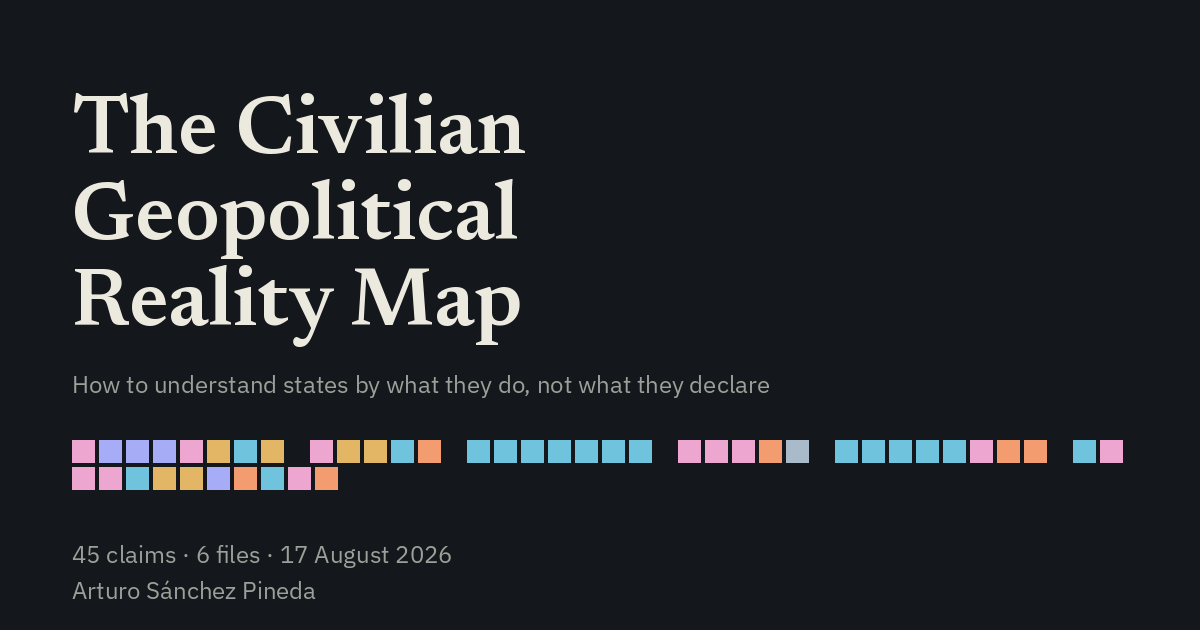
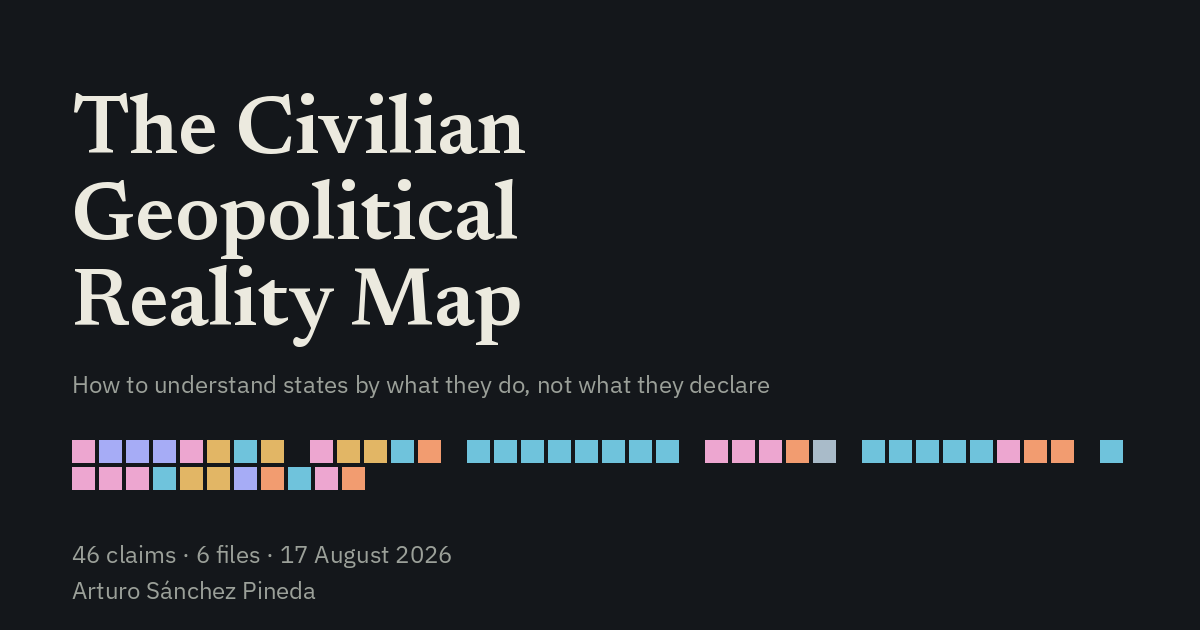
Document French Guiana and Schengen territorial scope

diff --git a/content/es/00-metodo.md b/content/es/00-metodo.md
@@ -114,7 +114,7 @@ Para cada territorio debemos examinar:
 
 Puerto Rico y Guam pasaron a la soberanía estadounidense mediante la guerra de 1898 y el [Tratado de París](https://www.govinfo.gov/content/pkg/STATUTE-30/pdf/STATUTE-30-Pg1754.pdf). Puerto Rico es un territorio no incorporado de Estados Unidos cuya relación permanece sujeta a la autoridad del Congreso. Guam también es un territorio no incorporado y continúa en la [lista de Territorios No Autónomos de la ONU](https://documents.un.org/doc/undoc/gen/n22/749/47/pdf/n2274947.pdf). Ninguno debe describirse de manera ligera como una ocupación beligerante actual; ambos muestran cómo una adquisición militar puede convertirse en administración jurídica duradera.
 
-Francia anexó Nueva Caledonia en 1853. Es una colectividad *sui generis* y un Territorio No Autónomo de la ONU cuyo futuro institucional continúa en disputa. La Guayana Francesa es diferente: está integrada constitucionalmente en Francia bajo el artículo 73, con ciudadanía francesa y europea y representación nacional, aunque conserva dependencias materiales y desigualdades propias de la incorporación colonial. La ciudadanía formal modifica el análisis jurídico; no hace desaparecer la historia ni la dependencia estructural.
+Francia anexó Nueva Caledonia en 1853. Es una colectividad *sui generis* y un Territorio No Autónomo de la ONU cuyo futuro institucional continúa en disputa. La Guayana Francesa es diferente: está integrada constitucionalmente en Francia bajo el artículo 73, con ciudadanía francesa y europea y representación nacional, aunque conserva dependencias materiales y desigualdades propias de la incorporación colonial. Esa integración es diferenciada: el [artículo 138 del Convenio de Aplicación del Acuerdo de Schengen](https://www.legifrance.gouv.fr/jorf/id/JORFTEXT000000165861) limita su aplicación para Francia al territorio europeo de la República y deja a la Guayana Francesa fuera de Schengen. La ciudadanía formal modifica el análisis jurídico; no hace desaparecer la historia ni la dependencia estructural.
 
 Venezuela no pertenece a esta categoría territorial. Es un Estado soberano miembro de la ONU sometido en 2026 a fuerza militar extranjera contraria al derecho internacional y a coerción continuada. Confundir esa intervención con una ocupación jurídica ocultaría la prueba aplicable: la ocupación exige control efectivo del territorio y la [evaluación jurídica del Gobierno suizo](https://www.eda.admin.ch/dam/en/sd-web/uAgalQgitFmZ/20260113-memo-voelkerrechtliche-einschaetzung-usa-venezuela.pdf) concluyó que ese umbral todavía no se había alcanzado cuando fue redactada.
 
@@ -241,6 +241,7 @@ Comencé este trabajo con miedo y lo continué con dolor. Ninguna de esas emocio
 12. Departamento del Interior de Estados Unidos, clasificaciones políticas de las áreas insulares: <https://www.doi.gov/oia/islands/politicatypes>
 13. Ministerio francés de Ultramar, Nueva Caledonia: <https://www.outre-mer.gouv.fr/territoires/nouvelle-caledonie>
 14. Ministerio francés de Ultramar, Guayana Francesa: <https://www.outre-mer.gouv.fr/territoires/guyane>
+15. Convenio de Aplicación del Acuerdo de Schengen, artículo 138, publicación oficial francesa: <https://www.legifrance.gouv.fr/jorf/id/JORFTEXT000000165861>
 
 ### Contexto autoral
 

diff --git a/content/es/02-administracion.md b/content/es/02-administracion.md
@@ -55,7 +55,11 @@ La Guayana Francesa no debe confundirse con el Estado soberano de Guyana. Franci
 
 La Guayana Francesa no aparece en la lista de Territorios No Autónomos de la ONU. No puede describirse con exactitud como una ocupación militar extranjera actual. Su incorporación formal y sus derechos políticos constituyen diferencias reales frente a Guam o Nueva Caledonia.
 
+Existe otra diferencia jurídica que debe figurar en este mapa. La Guayana Francesa forma parte de la Unión Europea como región ultraperiférica, pero está fuera del ámbito territorial de Schengen: el [artículo 138 del Convenio de Aplicación del Acuerdo de Schengen](https://www.legifrance.gouv.fr/jorf/id/JORFTEXT000000165861) limita, para Francia, la aplicación del Convenio al territorio europeo de la República Francesa. Ceuta y Melilla no son un equivalente exacto. El [Acta Final de la adhesión española a Schengen](https://www.boe.es/diario_boe/txt.php?id=BOE-A-1994-7586) conserva un régimen específico, con reglas locales de visado fronterizo y controles de identidad y documentos en las conexiones marítimas y aéreas desde ambas ciudades hacia el resto de España u otro Estado Schengen. Por tanto, no es exacto afirmar que los tres territorios están simplemente excluidos de Schengen de la misma manera: la Guayana Francesa está excluida territorialmente, mientras Ceuta y Melilla se rigen por un arreglo especial español con controles de salida.
+
 Sin embargo, la incorporación no borra la continuidad colonial. El territorio continúa dependiendo económica y administrativamente de decisiones tomadas en la Francia metropolitana; presenta desigualdades graves, déficits de infraestructura y una función estratégica a través del Centro Espacial de Guayana. La descripción útil es **incorporación colonial con ciudadanía formal, representación nacional y dependencia estructural persistente**.
+
+Incluyo esta distinción porque demuestra que la incorporación puede ser completa en una capa jurídica y limitada en otra. La ciudadanía francesa y europea es real; la exclusión de Schengen también lo es. Un mapa civil debe registrar ambas cosas, en lugar de permitir que la palabra «integrada» oculte un tratamiento territorial diferenciado.
 
 ## Lo que revela la comparación
 
@@ -92,6 +96,8 @@ Por eso no utilizo «colonia», «ocupación» e «incorporación» como acusaci
 8. Asamblea Nacional francesa, decisión del 2 de abril de 2026: <https://www.assemblee-nationale.fr/dyn/17/textes/l17t0262_texte-adopte-seance>
 9. Ministerio francés de Ultramar, Guayana Francesa: <https://www.outre-mer.gouv.fr/territoires/guyane>
 10. Comité Especial de Descolonización de la ONU, documento de trabajo sobre Nueva Caledonia, 2024: <https://digitallibrary.un.org/record/4052180/files/A_AC.109_2024_L.22-EN.pdf>
+11. Convenio de Aplicación del Acuerdo de Schengen, artículo 138, publicación oficial francesa: <https://www.legifrance.gouv.fr/jorf/id/JORFTEXT000000165861>
+12. Instrumento español de ratificación y declaración relativa a Ceuta y Melilla: <https://www.boe.es/diario_boe/txt.php?id=BOE-A-1994-7586>
 
 ### Contexto autoral
 

diff --git a/content/en/00-method.md b/content/en/00-method.md
@@ -114,7 +114,7 @@ For each territory, examine:
 
 Puerto Rico and Guam entered United States sovereignty through the 1898 war and treaty with Spain. Puerto Rico is an unincorporated US territory whose relationship remains subject to congressional authority. Guam is also an unincorporated territory and remains on the [UN list of Non-Self-Governing Territories](https://documents.un.org/doc/undoc/gen/n22/749/47/pdf/n2274947.pdf). Neither should be casually described as a present belligerent occupation; both display the conversion of military acquisition into durable legal administration.
 
-France annexed New Caledonia in 1853. It is a sui generis collectivity and a UN-listed Non-Self-Governing Territory whose institutional future remains contested. French Guiana is different: it is constitutionally integrated into France under Article 73, with French and European citizenship and national representation, while remaining marked by the material dependencies and inequalities of colonial incorporation. Formal citizenship changes the legal analysis; it does not make history or structural dependency disappear.
+France annexed New Caledonia in 1853. It is a sui generis collectivity and a UN-listed Non-Self-Governing Territory whose institutional future remains contested. French Guiana is different: it is constitutionally integrated into France under Article 73, with French and European citizenship and national representation, while remaining marked by the material dependencies and inequalities of colonial incorporation. That integration is differentiated: [Article 138 of the Convention implementing the Schengen Agreement](https://www.legifrance.gouv.fr/jorf/id/JORFTEXT000000165861) limits its application for France to the European territory of the Republic, leaving French Guiana outside Schengen. Formal citizenship changes the legal analysis; it does not make history or structural dependency disappear.
 
 Venezuela does not belong in this territorial category. It is a sovereign UN member subjected in 2026 to unlawful foreign military force and continuing coercion. Conflating that intervention with legal occupation would obscure the applicable test: occupation requires effective control over territory, and the Swiss government’s legal assessment found that threshold had not been met at the time of its memorandum.
 
@@ -241,6 +241,7 @@ I began this work with fear and continued it with pain. Neither emotion proves a
 12. US Department of the Interior, political classifications of insular areas: <https://www.doi.gov/oia/islands/politicatypes>
 13. French Ministry for Overseas Territories, New Caledonia: <https://www.outre-mer.gouv.fr/territoires/nouvelle-caledonie>
 14. French Ministry for Overseas Territories, French Guiana: <https://www.outre-mer.gouv.fr/territoires/guyane>
+15. Convention implementing the Schengen Agreement, Article 138, official French publication: <https://www.legifrance.gouv.fr/jorf/id/JORFTEXT000000165861>
 
 ### Authorial context
 

diff --git a/content/en/ledger.md b/content/en/ledger.md
@@ -72,6 +72,7 @@ Objectivity means that allies, adversaries and Venezuela’s own rulers receive 
 | New Caledonia is a French sui generis territory and UN NSGT {#NCL-STATUS-NSGT} | Current legal/UN status | [French ministry](https://www.outre-mer.gouv.fr/territoires/nouvelle-caledonie) | “Incomplete and contested decolonisation with substantial autonomy” | “New Caledonia is legally identical to French Guiana” |
 | The 2026 New Caledonia constitutional bill was rejected by the National Assembly on 2 April {#NCL-BILL-2026} | Legislative event | [National Assembly](https://www.assemblee-nationale.fr/dyn/17/textes/l17t0262_texte-adopte-seance) | “The proposed change did not complete enactment” | State that the proposal is already the governing constitutional settlement |
 | French Guiana is integrated into France under Article 73 with French/EU citizenship and national representation {#GUF-FR-ARTICLE73} | Current constitutional status | [French ministry](https://www.outre-mer.gouv.fr/territoires/guyane) | “Colonial incorporation with formal citizenship and structural dependency” | “French Guiana is a current foreign military occupation” or confuse it with Guyana |
+| French Guiana is outside Schengen, while Ceuta and Melilla follow a distinct Spain-specific regime {#GUF-SCHENGEN-SCOPE} | Current legal status | [Schengen Convention, Art. 138](https://www.legifrance.gouv.fr/jorf/id/JORFTEXT000000165861); [Spanish accession declaration](https://www.boe.es/diario_boe/txt.php?id=BOE-A-1994-7586) | “French Guiana is territorially excluded; Ceuta and Melilla retain special visa and departure controls” | “French Guiana, Ceuta and Melilla are excluded from Schengen on the same legal basis” |
 
 ## Afghanistan, Iraq and Syria
 

diff --git a/content/es/registro.md b/content/es/registro.md
@@ -72,6 +72,7 @@ La objetividad significa que aliados, adversarios y los propios gobernantes vene
 | Nueva Caledonia es una colectividad *sui generis* y Territorio No Autónomo {#NCL-STATUS-NSGT} | Estatus jurídico y de la ONU | [Ministerio francés](https://www.outre-mer.gouv.fr/territoires/nouvelle-caledonie) | «Descolonización incompleta y disputada con autonomía sustancial» | «Nueva Caledonia es jurídicamente idéntica a Guayana Francesa» |
 | La propuesta constitucional de 2026 fue rechazada por la Asamblea Nacional {#NCL-BILL-2026} | Acto legislativo | [Asamblea Nacional](https://www.assemblee-nationale.fr/dyn/17/textes/l17t0262_texte-adopte-seance) | «La propuesta no completó su entrada en vigor» | Presentarla como el acuerdo constitucional vigente |
 | Guayana Francesa está integrada en Francia bajo el artículo 73 {#GUF-FR-ARTICLE73} | Estatus constitucional | [Ministerio francés](https://www.outre-mer.gouv.fr/territoires/guyane) | «Incorporación colonial con ciudadanía formal y dependencia estructural» | «Guayana Francesa está actualmente bajo ocupación militar extranjera» o confundirla con Guyana |
+| Guayana Francesa está fuera de Schengen, mientras Ceuta y Melilla siguen un régimen específico español {#GUF-SCHENGEN-SCOPE} | Clasificación vigente | [Convenio de Schengen, art. 138](https://www.legifrance.gouv.fr/jorf/id/JORFTEXT000000165861); [declaración de adhesión española](https://www.boe.es/diario_boe/txt.php?id=BOE-A-1994-7586) | «Guayana Francesa está excluida territorialmente; Ceuta y Melilla conservan controles especiales de visado y salida» | «Guayana Francesa, Ceuta y Melilla están excluidas de Schengen por la misma base jurídica» |
 
 ## Afganistán, Irak y Siria
 

diff --git a/CHANGELOG.md b/CHANGELOG.md
@@ -26,6 +26,9 @@ is recorded here.
 - Clarified in the first person that Arturo wrote the study and the prompts used
   to direct AI searches for possible references, while preserving a precise
   account of the drafting and technical assistance AI provided.
+- Added French Guiana's exclusion from Schengen under Article 138 and separated
+  it from the Spain-specific visa and departure-control regime governing Ceuta
+  and Melilla; synchronized the analysis, ledgers and map labels in both languages.
 - Case studies reordered: the Caribbean killings become IV, Venezuela becomes V.
 - Claim anchors are now stable. They no longer come from row order, so adding a
   claim does not renumber the ones below it or break an existing citation.
@@ -51,7 +54,7 @@ is recorded here.
   authorial method derived from *Miedo* and *Dolor*, the Caribbean-to-Venezuela
   chronology, Executive Order 14373, the BBC investigation and the analysis of
   de facto tutelage.
-- Both editions now contain the same 45 claims in the same case-study order.
+- Both editions now contain the same 46 claims in the same case-study order.
 - Every claim has a permanent semantic identifier shared by its English and
   Spanish versions.
 - Added the English `documentary fact` evidence match used by the Executive

diff --git a/DECISIONS.md b/DECISIONS.md
@@ -24,7 +24,7 @@ If the licence changes, replace the licence paragraph, record it in
 
 ## 2. Semantic claim identifiers — resolved in 0.3
 
-All 45 claims carry permanent semantic identifiers, with the same identifier
+All 46 claims carry permanent semantic identifiers, with the same identifier
 used for the corresponding claim in both editions. `validate.py` reports an
 identifier present in only one edition and rejects duplicates within either
 edition.
